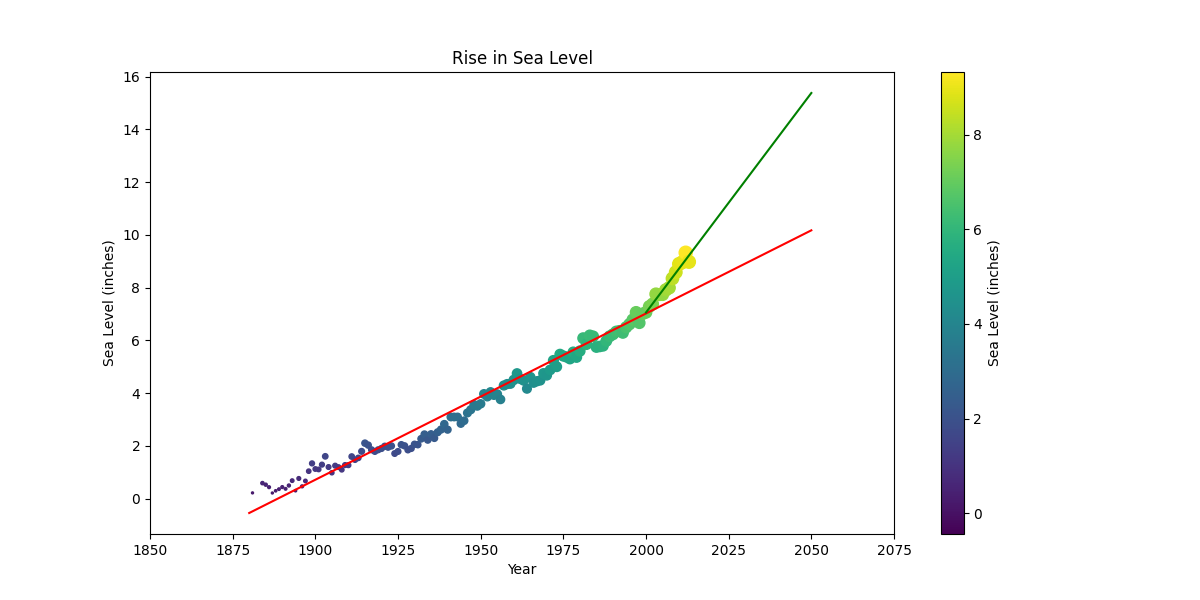
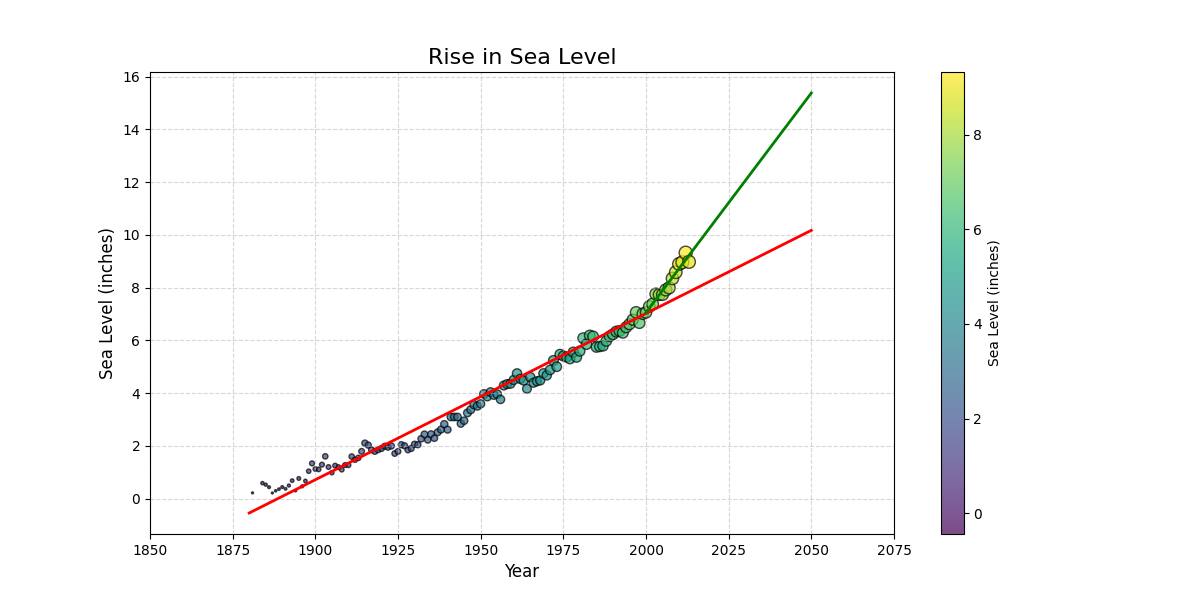
feat: refactoring code by AI

diff --git a/sea_level_predictor.py b/sea_level_predictor.py
@@ -5,18 +5,36 @@ import numpy as np
 
 def draw_plot():
     df = pd.read_csv('epa-sea-level.csv')
-    fig, ax = plt.subplots(figsize=(12,6))
-    sizes = df['CSIRO Adjusted Sea Level'] * np.pi*3
-    colors = df['CSIRO Adjusted Sea Level']
-    sc = ax.scatter(df['Year'], df['CSIRO Adjusted Sea Level'], c=colors, s=sizes)
-    for start, color in [(df['Year'].min(), 'red'), (2000, 'green')]:
-        d = df[df['Year'] >= start]
-        s, i, *_ = linregress(d['Year'], d['CSIRO Adjusted Sea Level'])
-        ax.plot(np.arange(start, 2051), s*np.arange(start, 2051)+i, color=color)
 
-    ax.set(title="Rise in Sea Level", xlabel="Year", ylabel="Sea Level (inches)")
-    ax.set_xticks([1850,1875,1900,1925,1950,1975,2000,2025,2050,2075])
-    cbar = plt.colorbar(sc, ax=ax)
+    fig, ax = plt.subplots(figsize=(12, 6))
+
+    sizes = df['CSIRO Adjusted Sea Level'] * np.pi * 3
+    colors = df['CSIRO Adjusted Sea Level']  
+    scatter = ax.scatter(df['Year'], df['CSIRO Adjusted Sea Level'], 
+                         c=colors, s=sizes, cmap='viridis', edgecolor='k', alpha=0.7)
+
+    
+    regression_periods = [
+        (df['Year'].min(), 'red'),   
+        (2000, 'green')              #
+    ]
+
+    for start_year, line_color in regression_periods:
+        data_subset = df[df['Year'] >= start_year]
+        slope, intercept, *_ = linregress(data_subset['Year'], data_subset['CSIRO Adjusted Sea Level'])
+        years_range = np.arange(start_year, 2051)
+        sea_level_fit = slope * years_range + intercept
+        ax.plot(years_range, sea_level_fit, color=line_color, linewidth=2)
+
+    ax.set_title("Rise in Sea Level", fontsize=16)
+    ax.set_xlabel("Year", fontsize=12)
+    ax.set_ylabel("Sea Level (inches)", fontsize=12)
+    ax.set_xticks([1850, 1875, 1900, 1925, 1950, 1975, 2000, 2025, 2050, 2075])
+    ax.grid(True, linestyle='--', alpha=0.5)
+
+    cbar = plt.colorbar(scatter, ax=ax)
     cbar.set_label('Sea Level (inches)')
+
     plt.savefig('sea_level_plot.png')
+
     return ax
